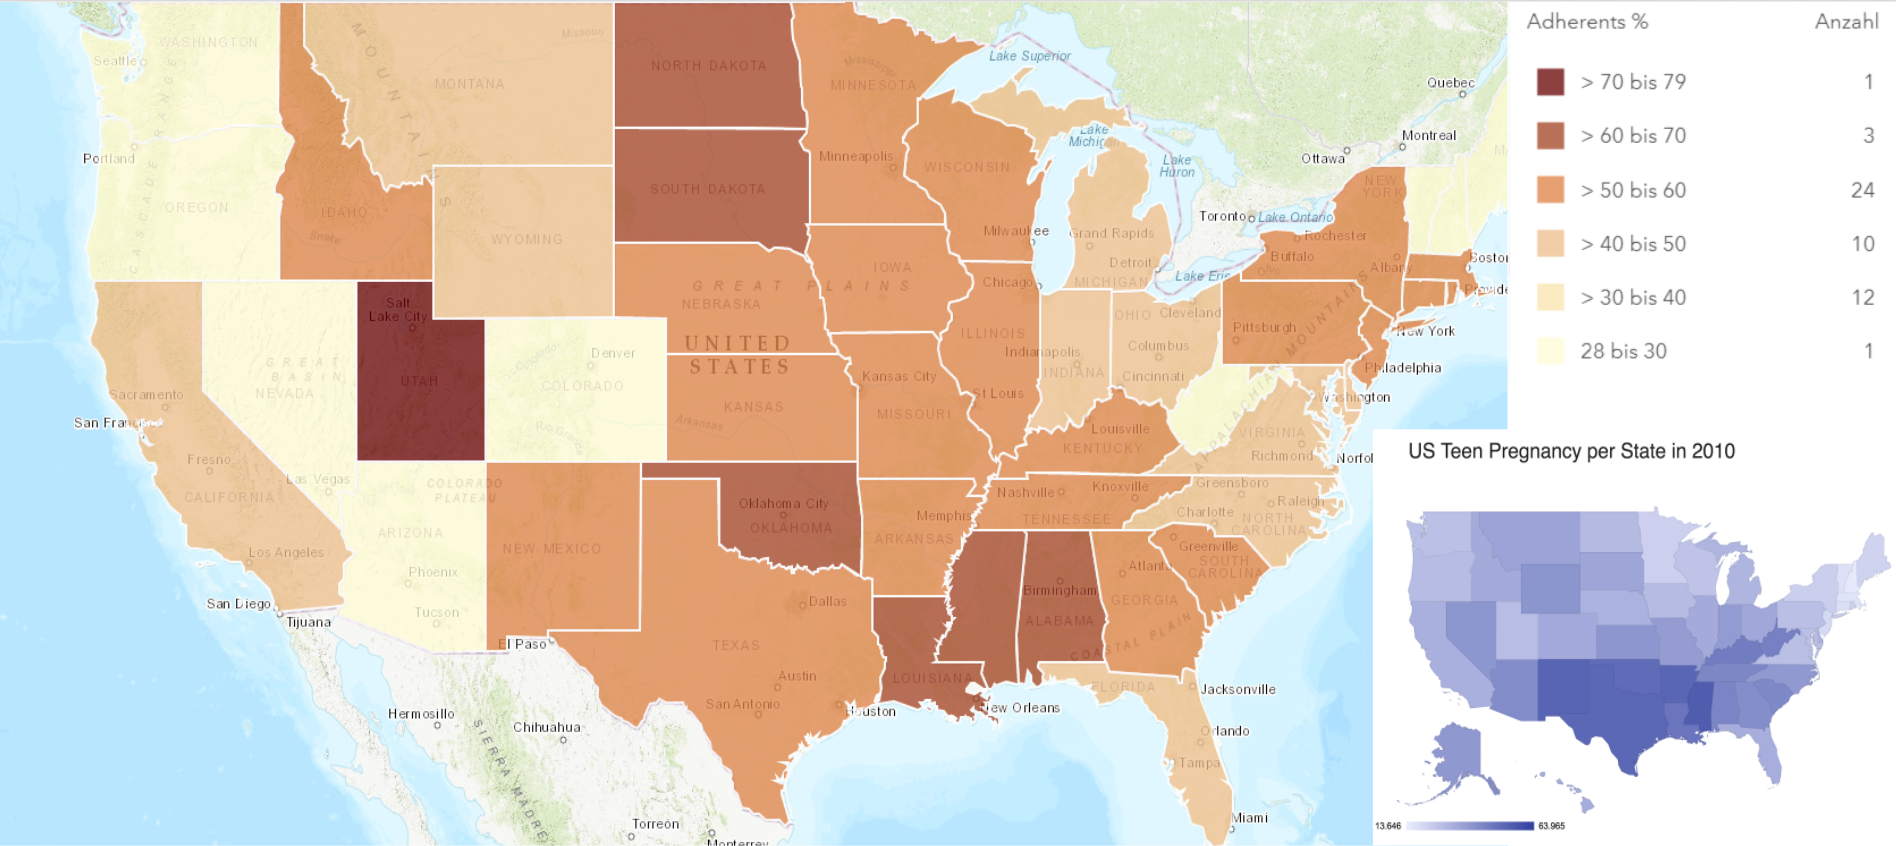
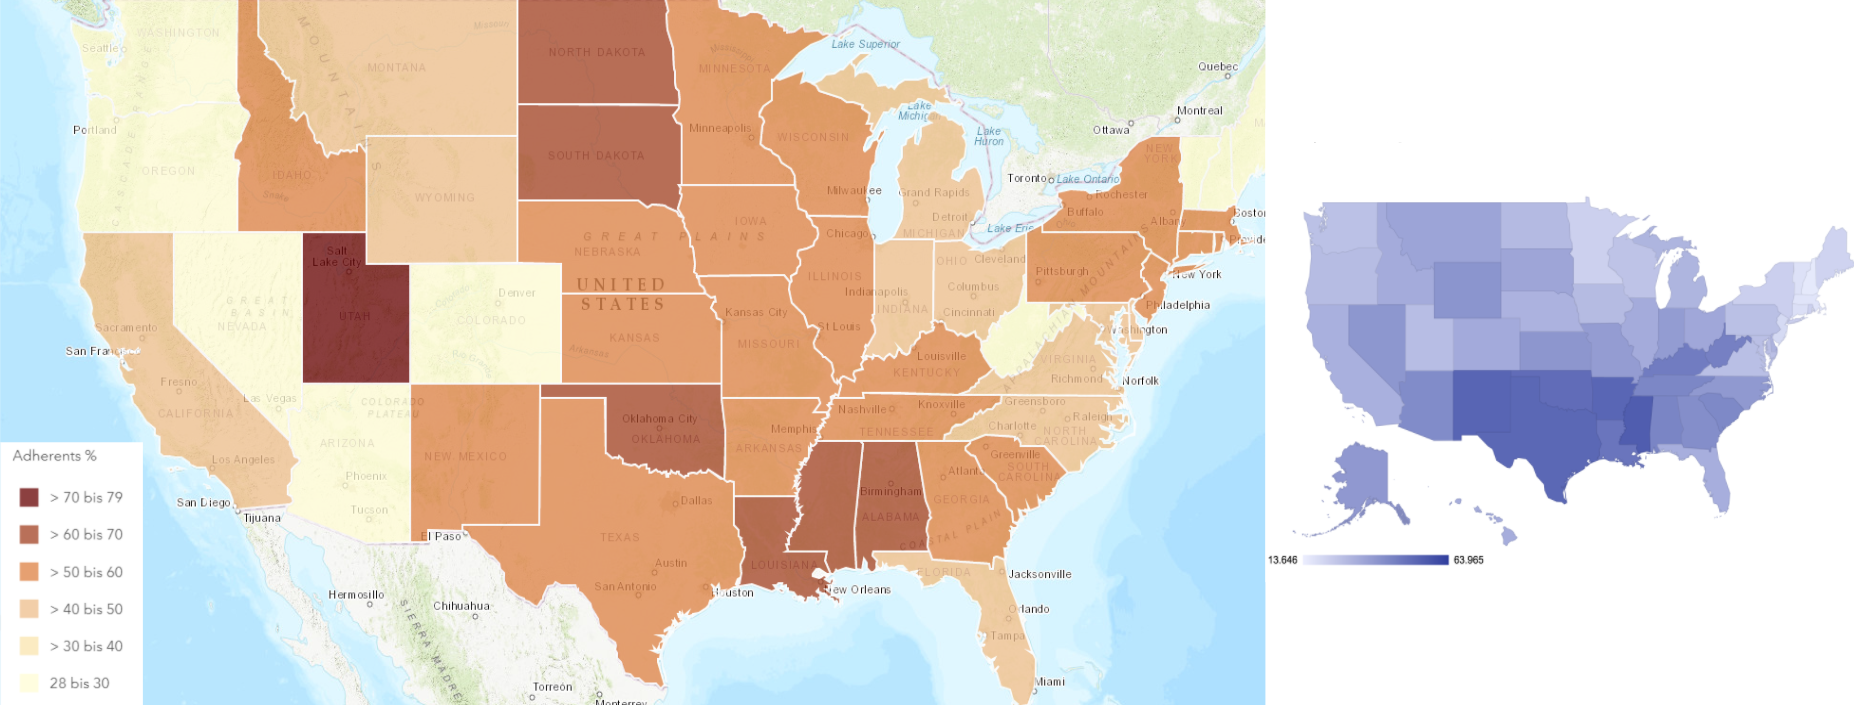
fixed first teen box

diff --git a/src/slides/ReligionUSStates/index.js b/src/slides/ReligionUSStates/index.js
@@ -12,11 +12,18 @@ export default class ReligionUSStates extends Component {
     return (
       <div class = "Religion">
       <div class="container">
-      <div class ="box_religion2010">
-              <div class="section col s4">
-              <div class="card">
-                  <div class="card-image waves-effect waves-block waves-light">
+      <div class ="box_teenrate">
+              <div class="row">
+              <div class="card col s4 push-s10">
+                      <h5>
+                        Teenage Pregnancy rate
+                      </h5>
                   </div>
+          </div>
+          </div>
+      <div class ="box_religion2010">
+              <div class="section col s12">
+              <div class="card">
                   <div class="card-content">
                       <h5>
                       In average, Americans seem to be more religious than Europeans, whereby we can see variations between the different states as well. Those religions opinions and their supporters way of living them out are so diversified though, that we shouldn’t expect correlations between pure adherent numbers and the teen pregnancy rates.
@@ -25,10 +32,6 @@ export default class ReligionUSStates extends Component {
                   </div>
                   <div class="card-action">
                       <a>Does religion impact teenage pregnancy?</a>
-                  </div>
-                  <div class="card-reveal">
-                      <span class="card-title grey-text text-darken-4">Abstinence-Only vs Comprehensive
-                          <i class="material-icons right">close</i></span>
                   </div>
                   </div>
           </div>

diff --git a/src/slides/ReligionUSStates/index.css b/src/slides/ReligionUSStates/index.css
@@ -1,15 +1,17 @@
 .Religion {
     background-image: url("premium_religion.png");
     background-repeat: no-repeat;
-    margin-top: 7.5%;
-    height: 85vh;
-    background-size: cover;
+    
+    width: 100%;
+    height: 23cm;    
 }
 
 .box_religion2010 {
+    padding-top: 0;
+}
 
-    margin-top: 5%;
-
+.box_teenrate {
+    padding-top: 8%;
 }
 
 
